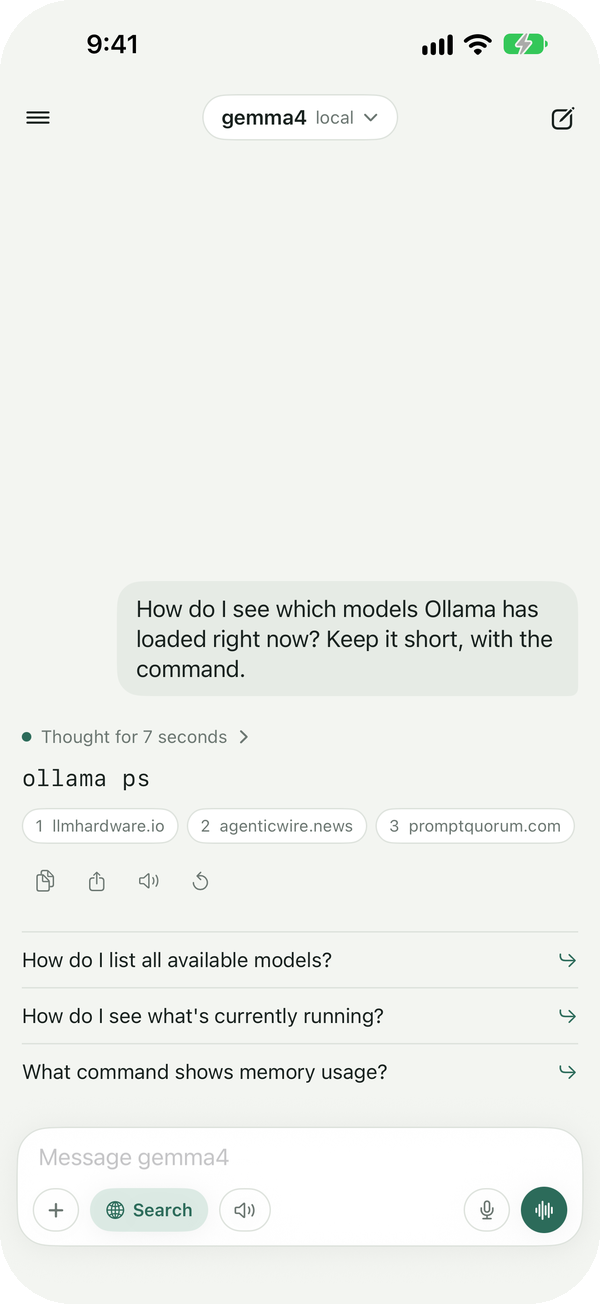
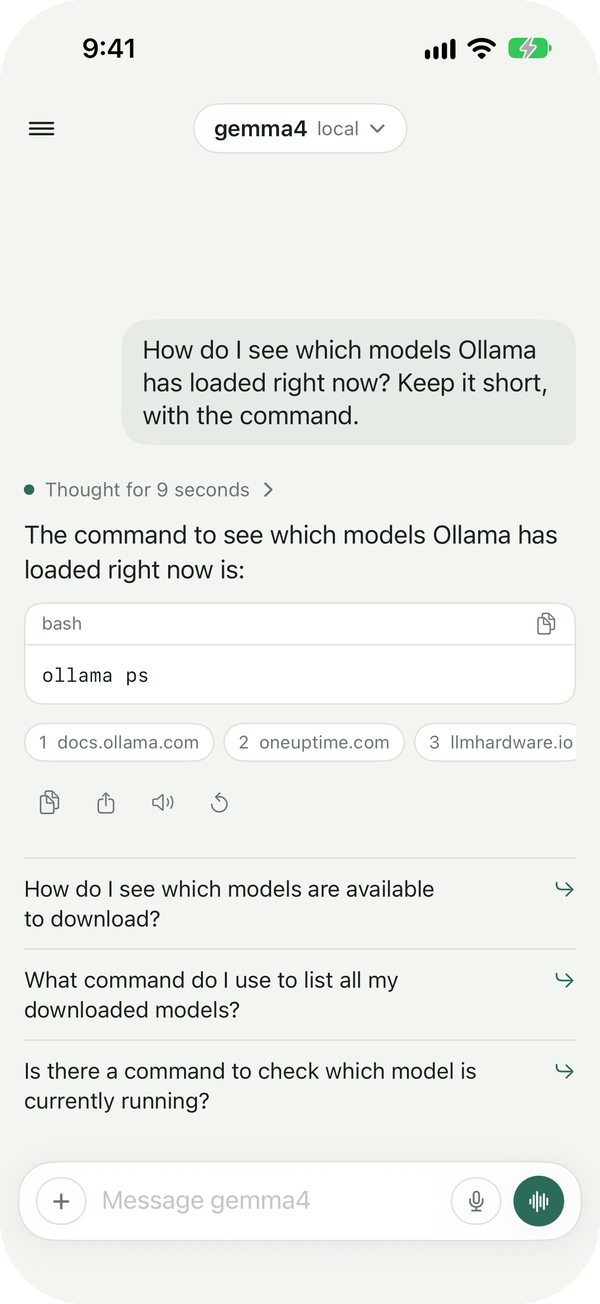
docs: retake the screenshots and show pictures being made and changed - Update `chat.png`, `drawer.png` retake with the present composer and chat list - Create `picture.png`, `picture-change.png` a picture made from words, and the same picture changed by a follow-up - Update `README.md` show the new

diff --git a/README.md b/README.md
@@ -11,8 +11,12 @@ hands-free with replies spoken by your own Kokoro voice. Nothing goes through an
 and your conversations stay on the device.
 
 <p align="center">
-  <img src="docs/chat.png" alt="A reply with folded thinking, web sources and suggested follow-up questions" width="24%">
-  <img src="docs/drawer.png" alt="The drawer of conversations, with a pinned chat and chats grouped by day" width="24%">
+  <img src="docs/chat.png" alt="A reply with folded thinking, a command in a code block, web sources and suggested follow-up questions" width="24%">
+  <img src="docs/picture.png" alt="A picture of a lighthouse at sunset, made from a description, with Save and Share" width="24%">
+  <img src="docs/picture-change.png" alt="The same lighthouse changed to a snowy winter night by a follow-up message" width="24%">
+  <img src="docs/drawer.png" alt="The drawer of conversations, with a pinned chat, a private chat and chats grouped by day" width="24%">
+</p>
+<p align="center">
   <img src="docs/table.png" alt="A reply with a table and a formula, in the dark theme" width="24%">
   <img src="docs/voice.png" alt="The hands-free voice conversation screen, listening" width="24%">
 </p>
